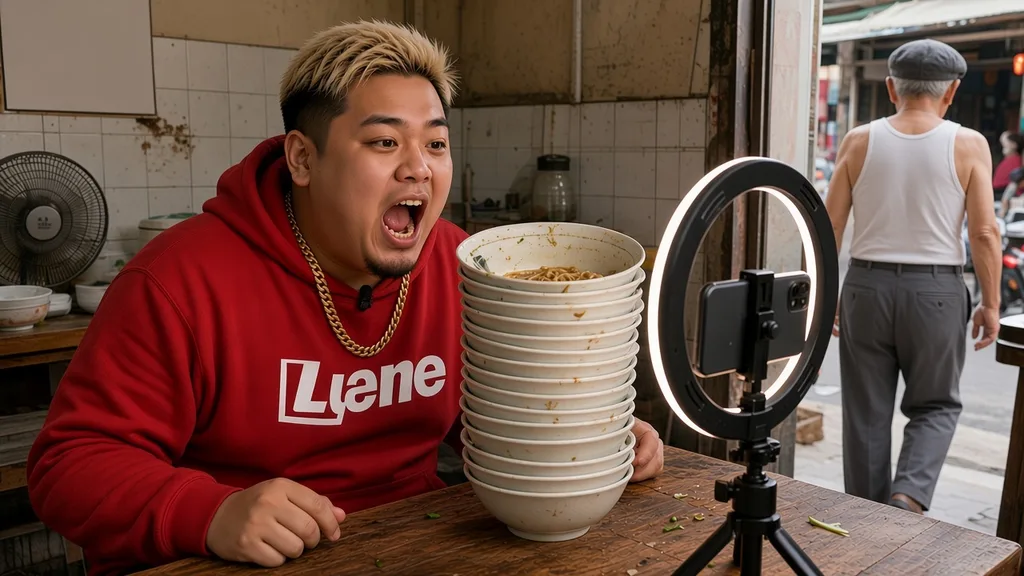
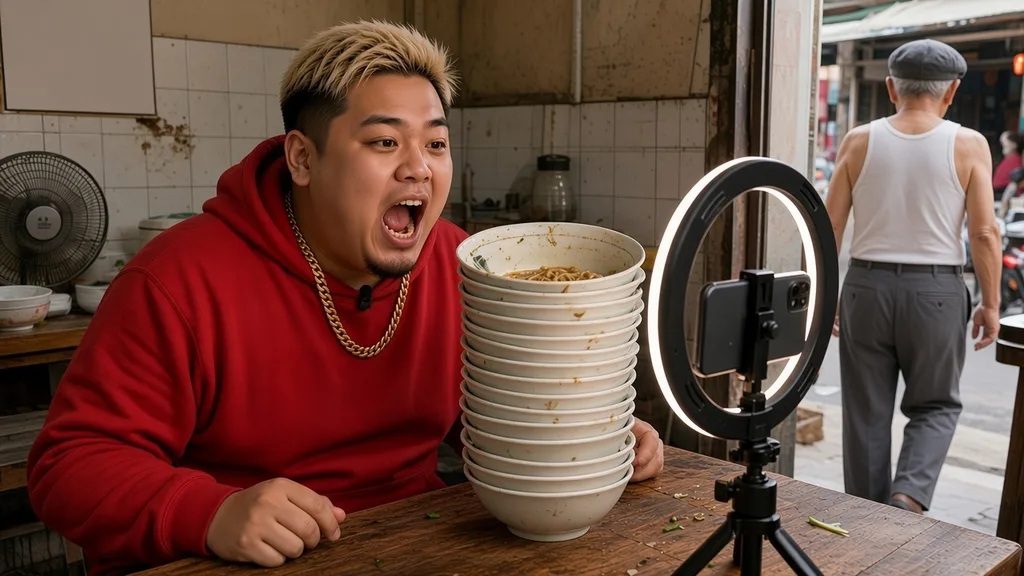
agege3 v=310: 只推圖，26 張同名重畫（繪 15:22–15:47 ✔：去 Liene、去火/煙火/光暈/字、A 線相似圖重畫、s_a1_qing 招牌）

Changed region(s): [[0.25, 0.5938, 0.4375, 0.75]]

diff --git a/agege3/index.html b/agege3/index.html
@@ -6,7 +6,7 @@
 <meta name="theme-color" content="#000">
 <title>阿葛傳奇 第二部．成名之後</title>
 <link rel="icon" href="data:,">
-<link rel="stylesheet" href="style.css?v=309">
+<link rel="stylesheet" href="style.css?v=310">
 </head>
 <body>
 <div id="stage">
@@ -62,8 +62,8 @@
 
   <div id="ending" class="screen hide"><div class="eWrap"><div class="eTag" id="eTag"></div><h2 id="eName"></h2><p id="eDesc"></p><div id="eVerdict"></div><div id="eNear" class="hide"></div><div class="tBtns"><button id="eReplay">重來一次</button><button id="eTitle">回到標題</button></div></div></div>
 </div>
-<script src="voicemap.js?v=309"></script>
-<script src="story.js?v=309"></script>
-<script src="engine.js?v=309"></script>
+<script src="voicemap.js?v=310"></script>
+<script src="story.js?v=310"></script>
+<script src="engine.js?v=310"></script>
 </body>
 </html>
